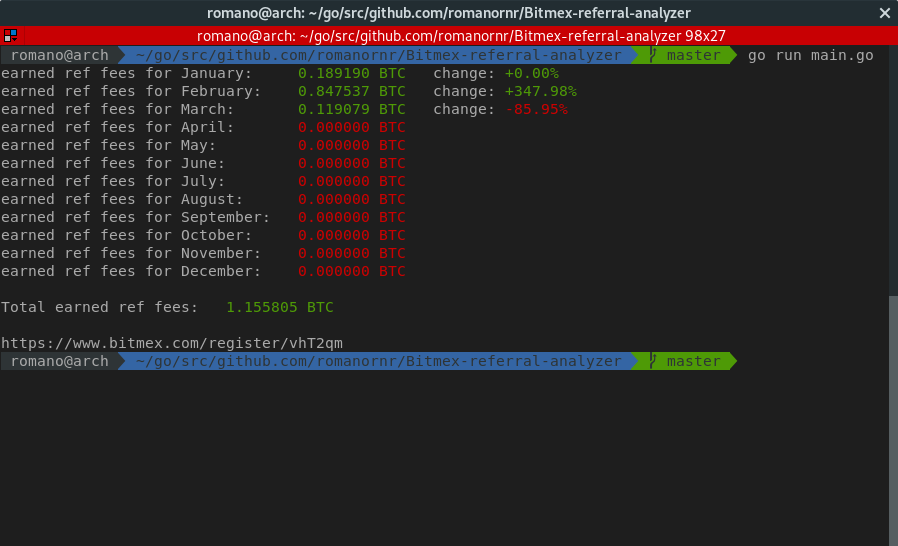
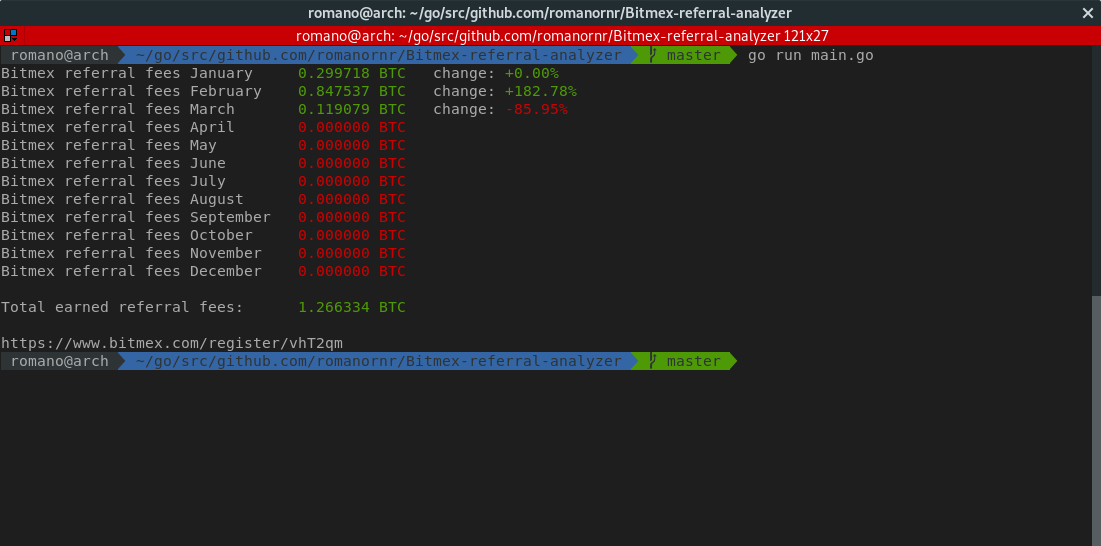
Change ref fee text

Changed region(s): [[0.0, 0.0, 0.9666, 0.5916], [0.0, 0.6227, 0.8419, 0.685], [0.9666, 0.0, 0.9978, 0.0311]]

diff --git a/main.go b/main.go
@@ -78,7 +78,7 @@ func calculateTotalReferral(transactions []account.Transaction) {
 		monthly.referralEarning(monthlyTransactions[index])
 	}
 
-	fmt.Printf("\nTotal earned ref fees:\t "+color.Green("%f BTC\n\n"), earned)
+	fmt.Printf("\nTotal earned referral fees:\t "+color.Green("%f BTC\n\n"), earned)
 }
 
 var previousMonthEarning float64
@@ -106,9 +106,9 @@ func (month Month) referralEarning(transactions []account.Transaction) {
 	}
 
 	if earnedBTC <= 0 {
-		fmt.Printf("earned ref fees for %s: \t "+color.Red("%f BTC\n"), time.Month(month), earnedBTC)
+		fmt.Printf("Bitmex referral fees %s \t "+color.Red("%f BTC\n"), time.Month(month), earnedBTC)
 	} else {
-		fmt.Printf("earned ref fees for %s: \t "+color.Green("%f BTC \t") + "%s", time.Month(month), earnedBTC, changeMessage)
+		fmt.Printf("Bitmex referral fees %s \t "+color.Green("%f BTC \t") + "%s", time.Month(month), earnedBTC, changeMessage)
 	}
 	previousMonthEarning = earnedBTC
 }
